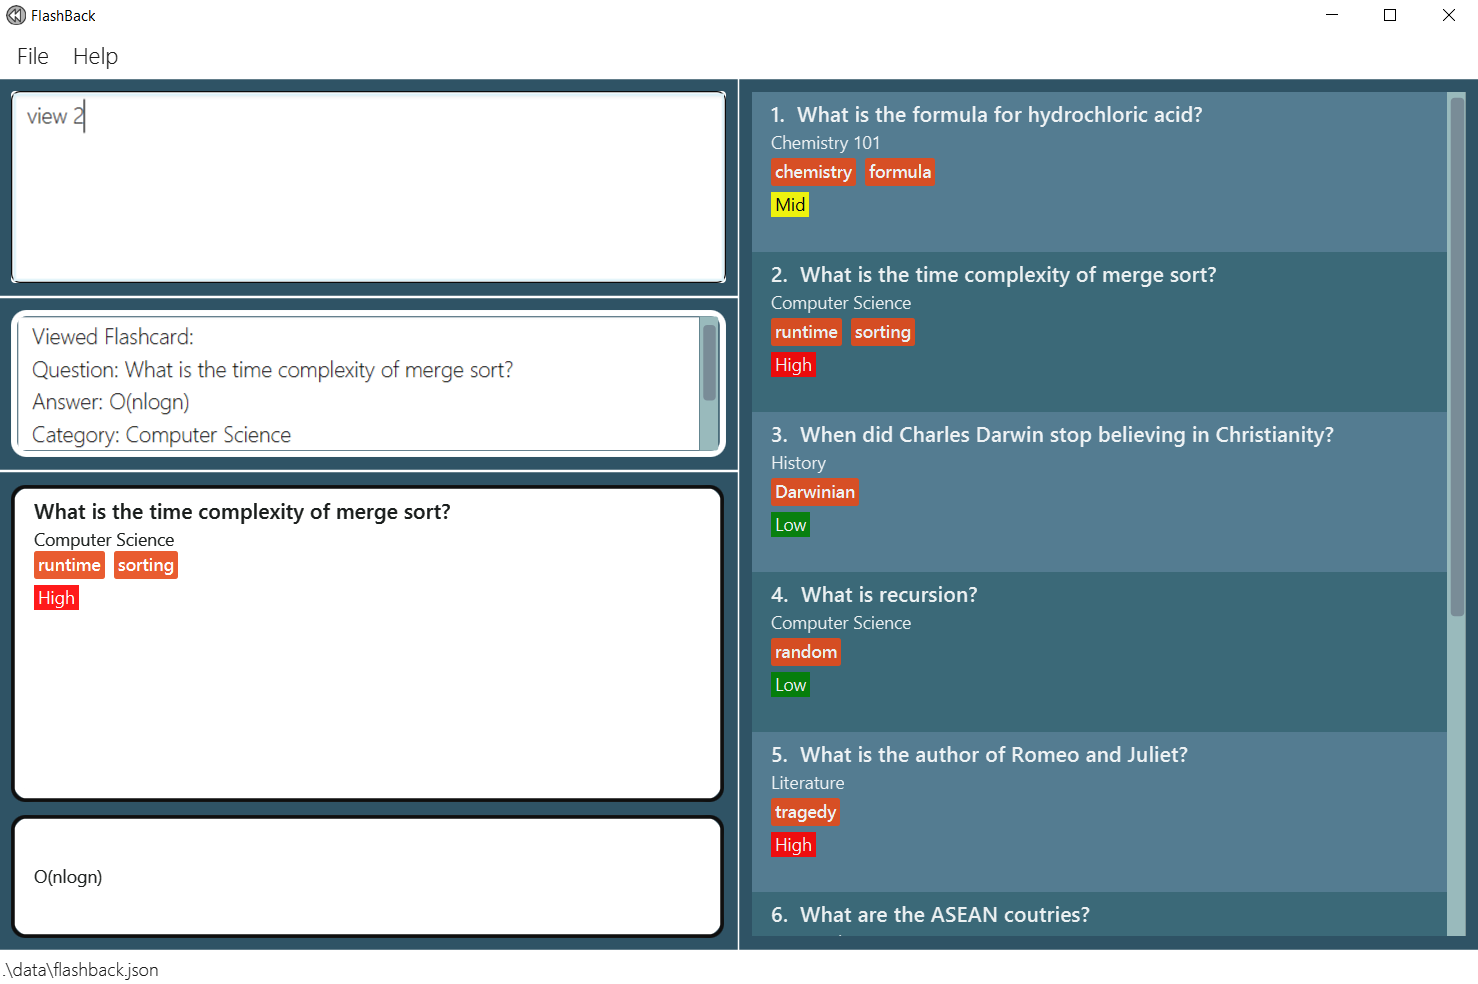
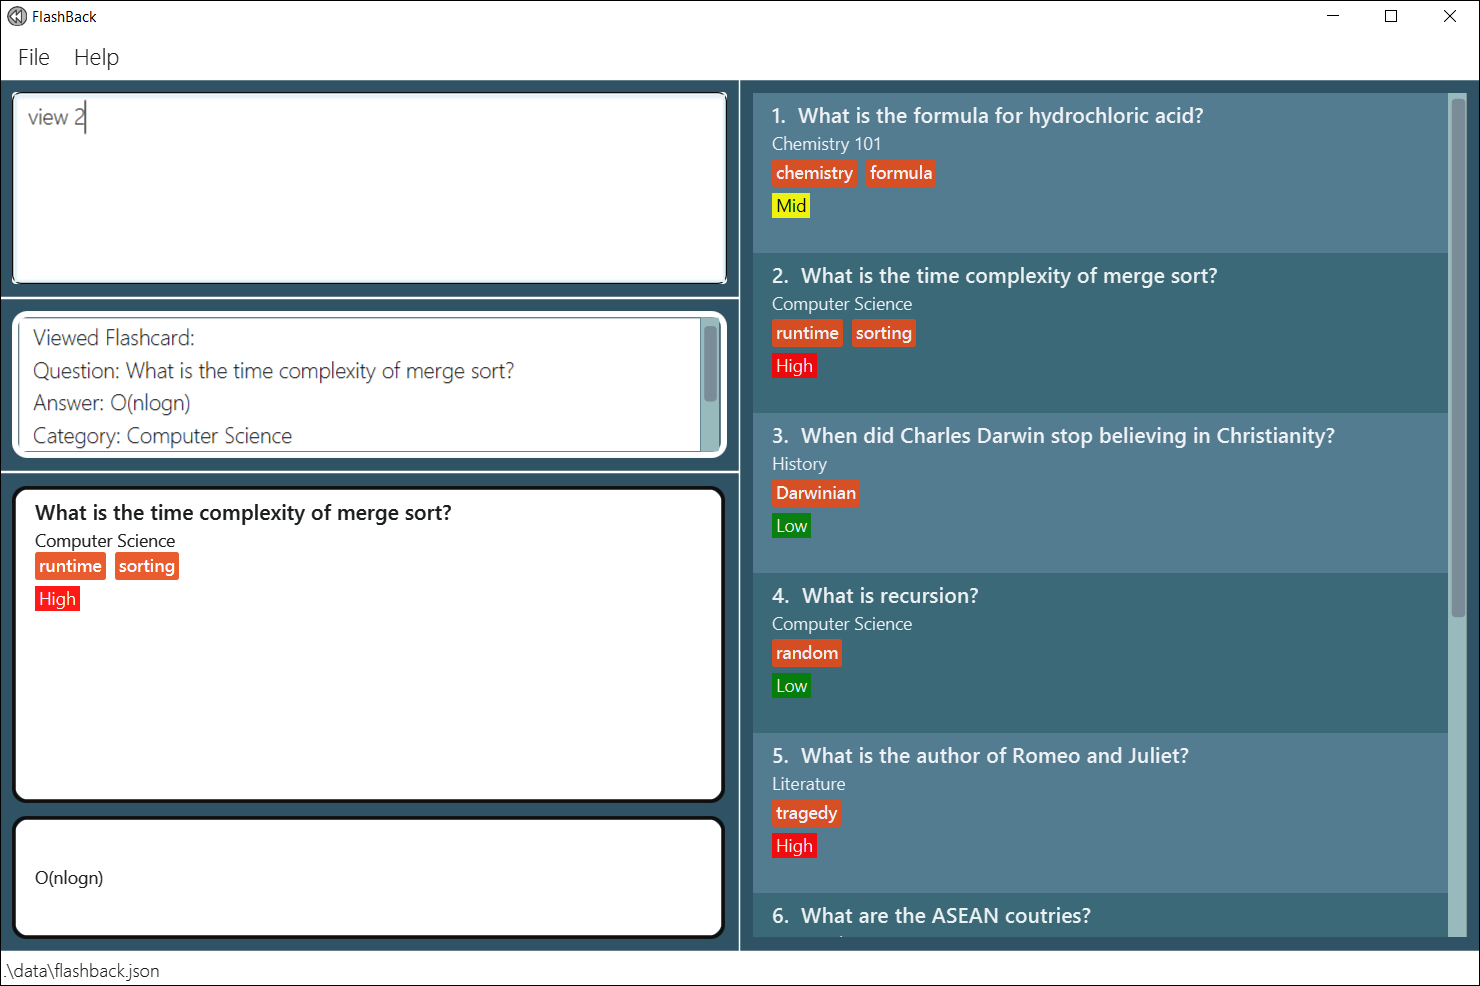
Update images in UG

diff --git a/docs/UserGuide.md b/docs/UserGuide.md
@@ -4,10 +4,7 @@ title: User Guide
 ---
 
 
-FlashBack is a **desktop application for managing notes, optimized for use via a Command Line Interface** (CLI) while
-still having the benefits of a Graphical User Interface (GUI). This application allows the improvement of student
-performance via improved accessibility and organisation of notes, together with interactive sessions that enhance memory
-retention.
+FlashBack is a **desktop application for managing notes, optimized for use via a Command Line Interface** (CLI) while still having the benefits of a Graphical User Interface (GUI). This application allows the improvement of student performance via improved accessibility and organisation of notes, together with interactive sessions that enhance memory retention.
 
 ## Table of Contents
 
@@ -68,9 +65,9 @@ retention.
 ## Application layout
 
 The figures below explain the different components in FlashBack. <br>
-Main window<br><br>
-![MainWindowComponents](./images/UiMainWindowComponents.png) <br><br>
-Review mode <br><br>
+Main window<br>
+![MainWindowComponents](./images/UiMainWindowComponents.png) <br>
+Review mode <br>
 ![ReviewModeComponents](./images/UiReviewModeComponents.png) <br><br>
 Brief explanation of each components:
 
